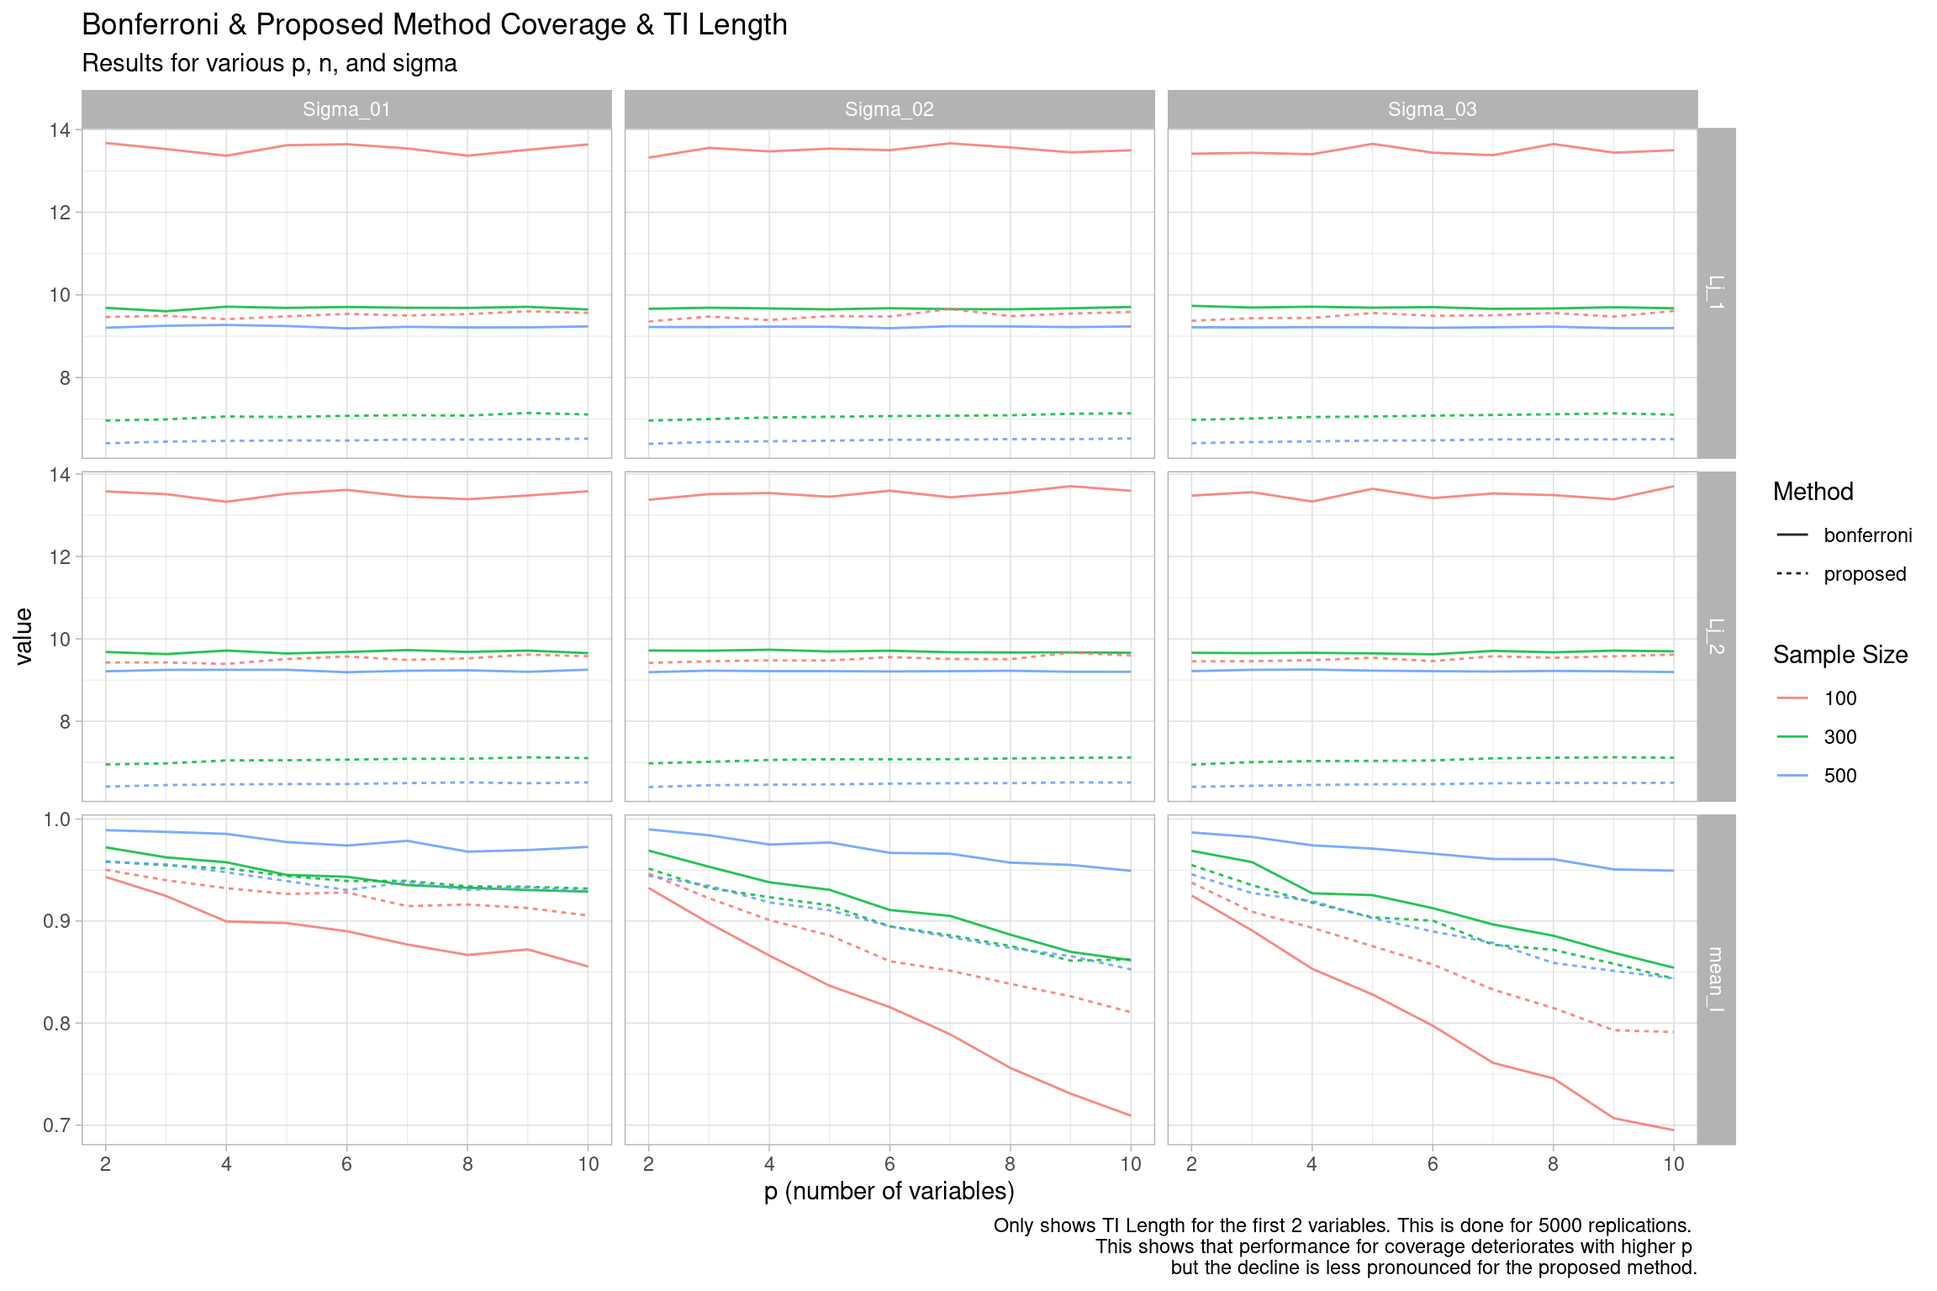
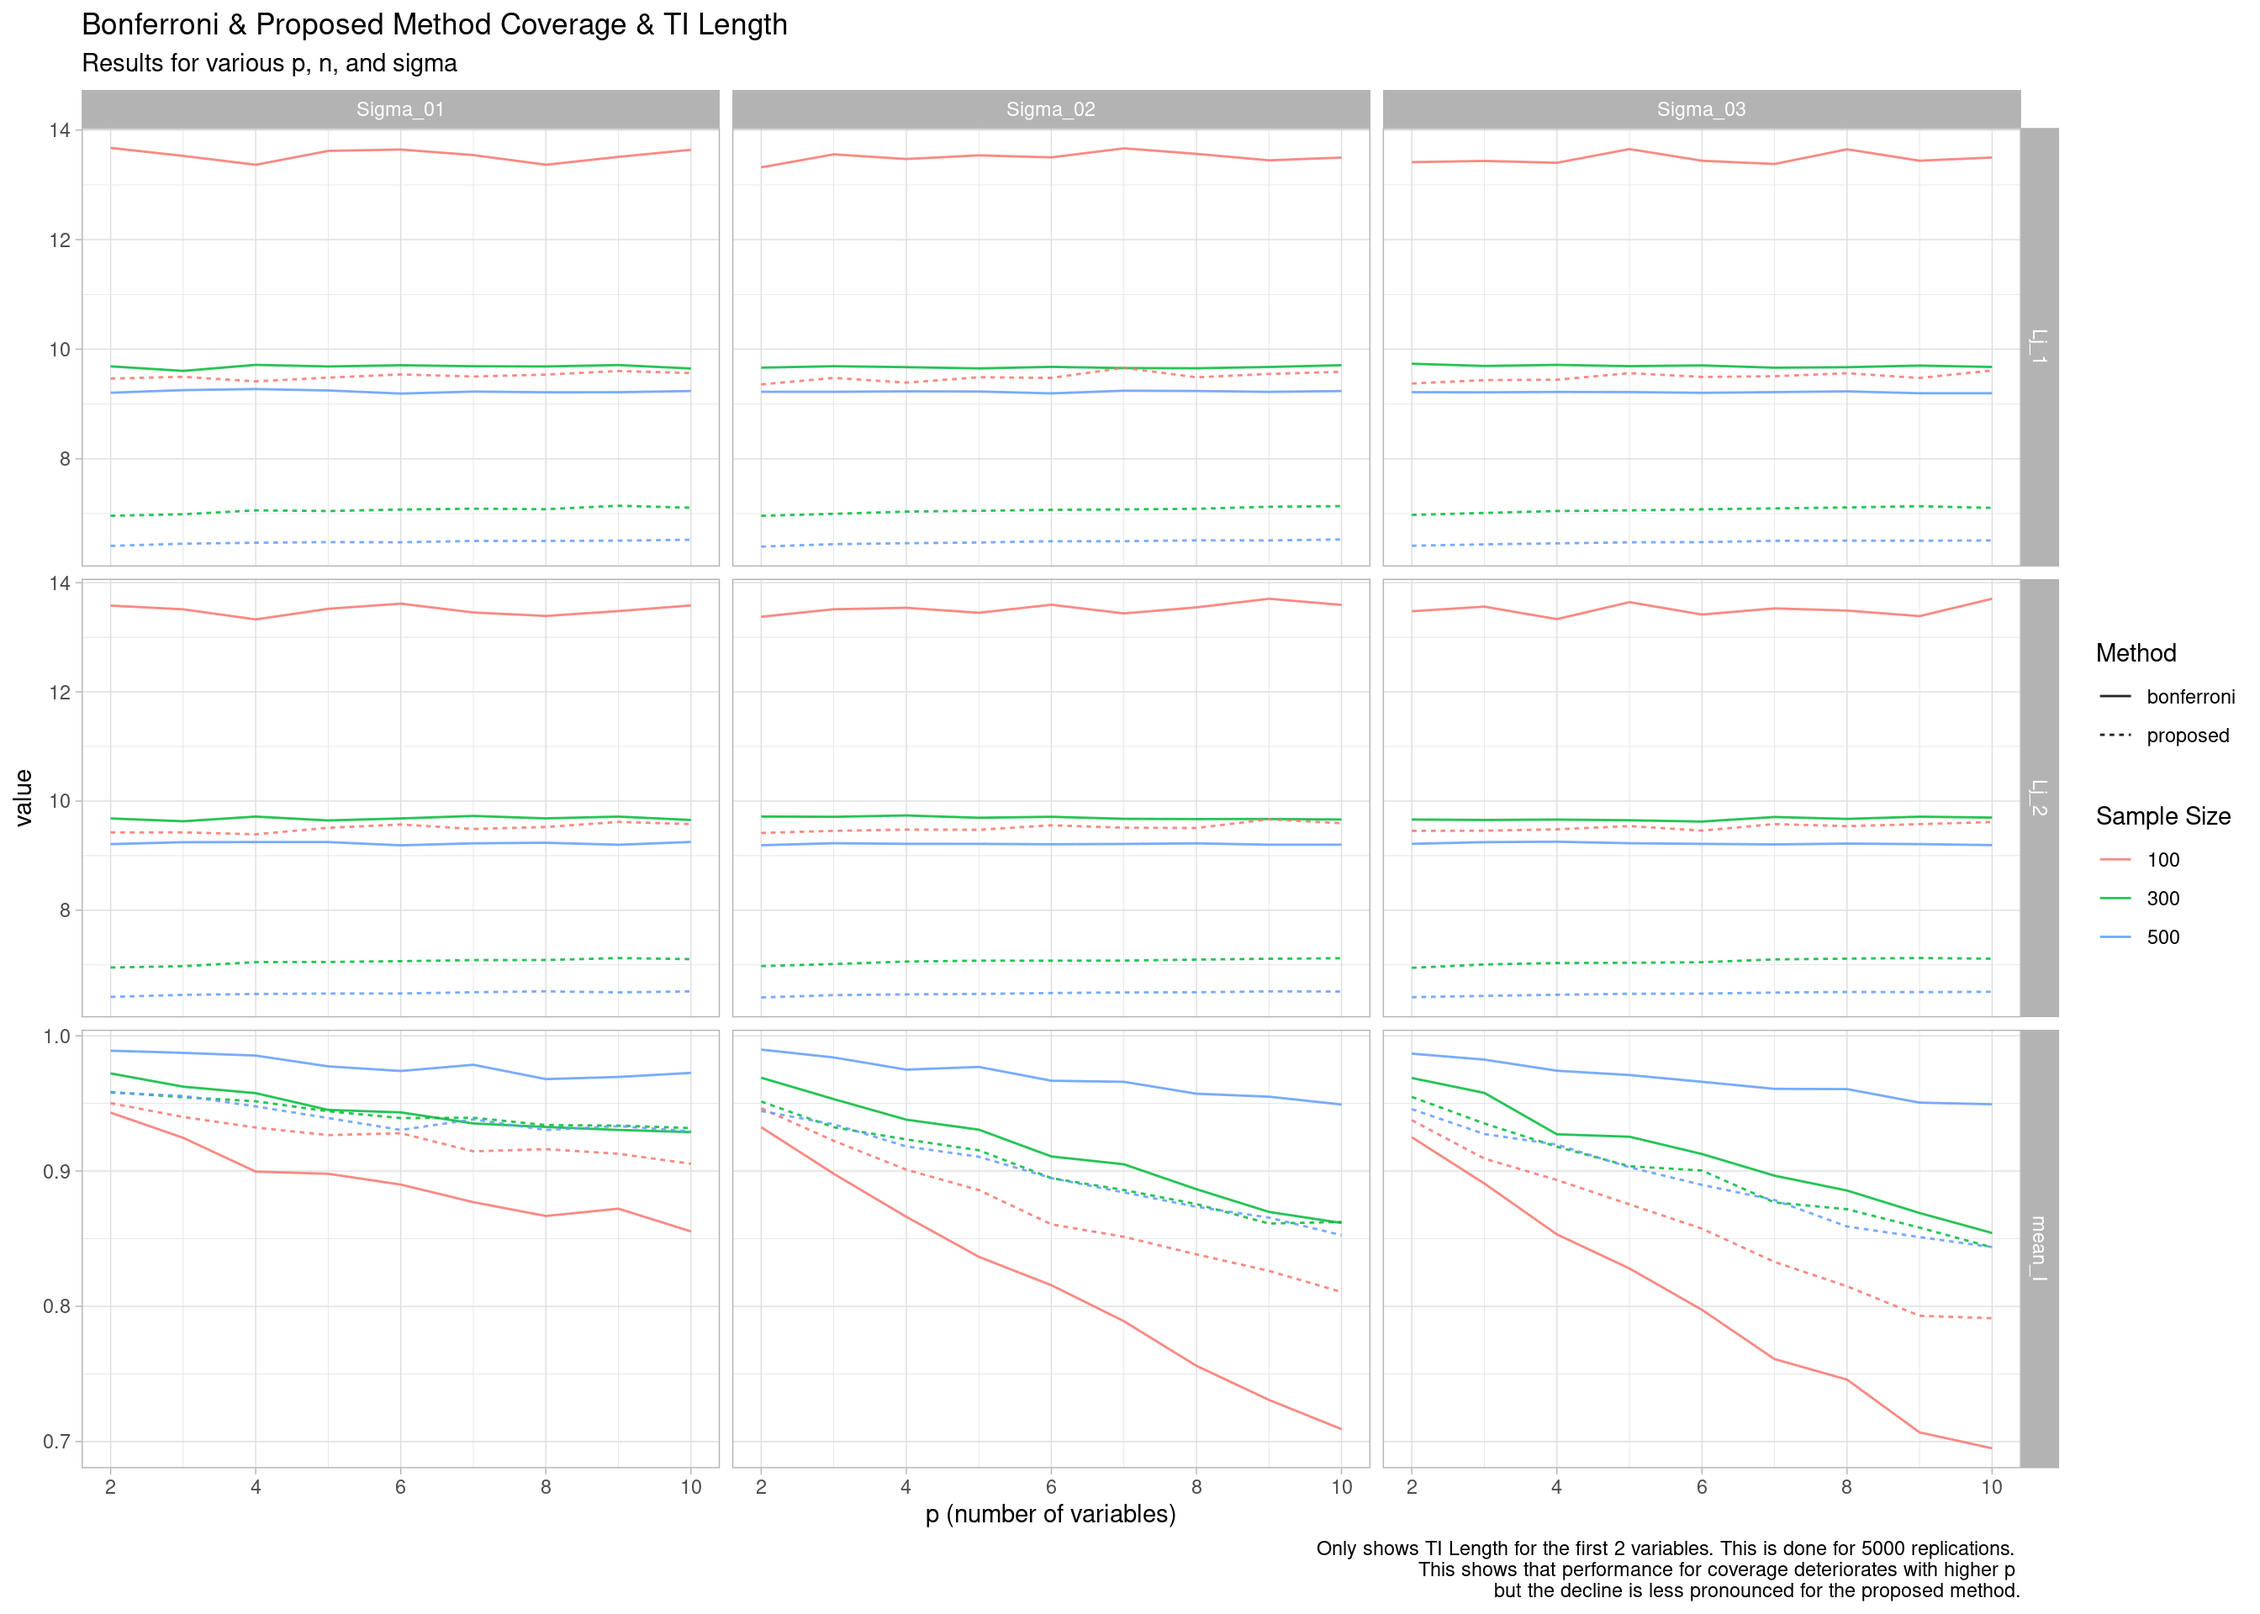
Deploy new Quarto site

diff --git a/docs/initial_notes.html b/docs/initial_notes.html
@@ -1029,19 +1029,19 @@ Attaching package: 'MASS'</code></pre>
 <pre><code>$Fhat_X1
 function (x) 
 mean(pnorm((x - datapoints)/bandwidth))
-&lt;environment: 0x556e37853580&gt;
+&lt;environment: 0x56456319d0a8&gt;
 
 $Fhat_X2
 function (x) 
 mean(pnorm((x - datapoints)/bandwidth))
-&lt;bytecode: 0x556e37168328&gt;
-&lt;environment: 0x556e376471e8&gt;
+&lt;bytecode: 0x56456e322428&gt;
+&lt;environment: 0x56456be4c038&gt;
 
 $Fhat_X3
 function (x) 
 mean(pnorm((x - datapoints)/bandwidth))
-&lt;bytecode: 0x556e37168328&gt;
-&lt;environment: 0x556e37164e18&gt;</code></pre>
+&lt;bytecode: 0x56456e322428&gt;
+&lt;environment: 0x56456e323158&gt;</code></pre>
 </div>
 </div>
 <ol start="3" type="1">
@@ -1625,7 +1625,7 @@ TI_length  Coverage
 <div class="cell-output-display">
 <div>
 <figure class="figure">
-<p><img src="initial_notes_files/figure-html/unnamed-chunk-38-1.png" class="img-fluid figure-img" width="1152"></p>
+<p><img src="initial_notes_files/figure-html/unnamed-chunk-38-1.png" class="img-fluid figure-img" width="1344"></p>
 </figure>
 </div>
 </div>
